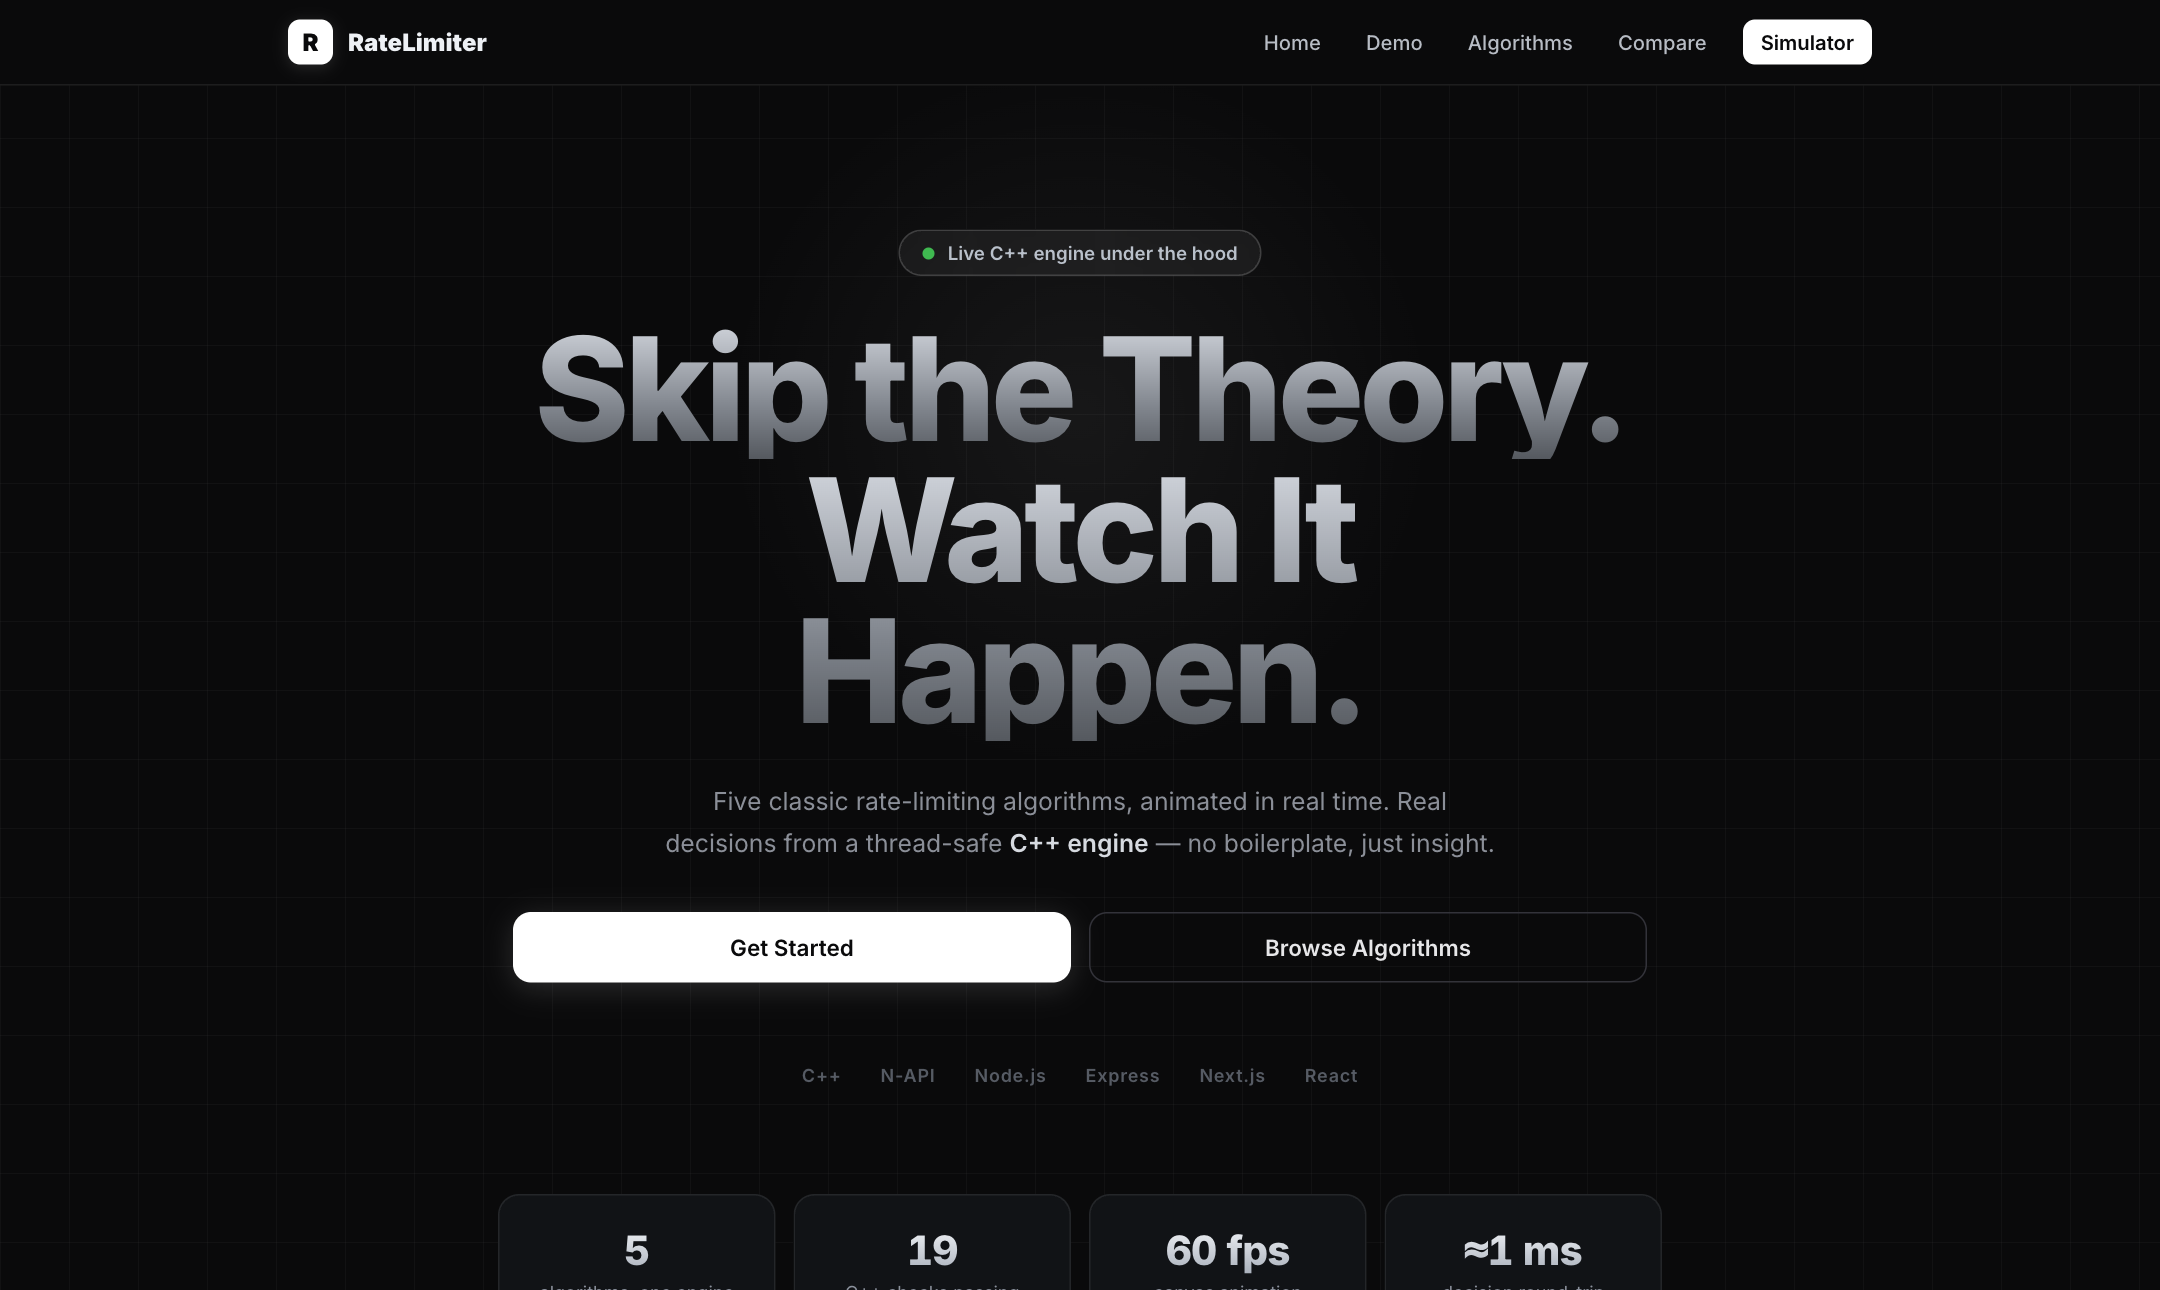
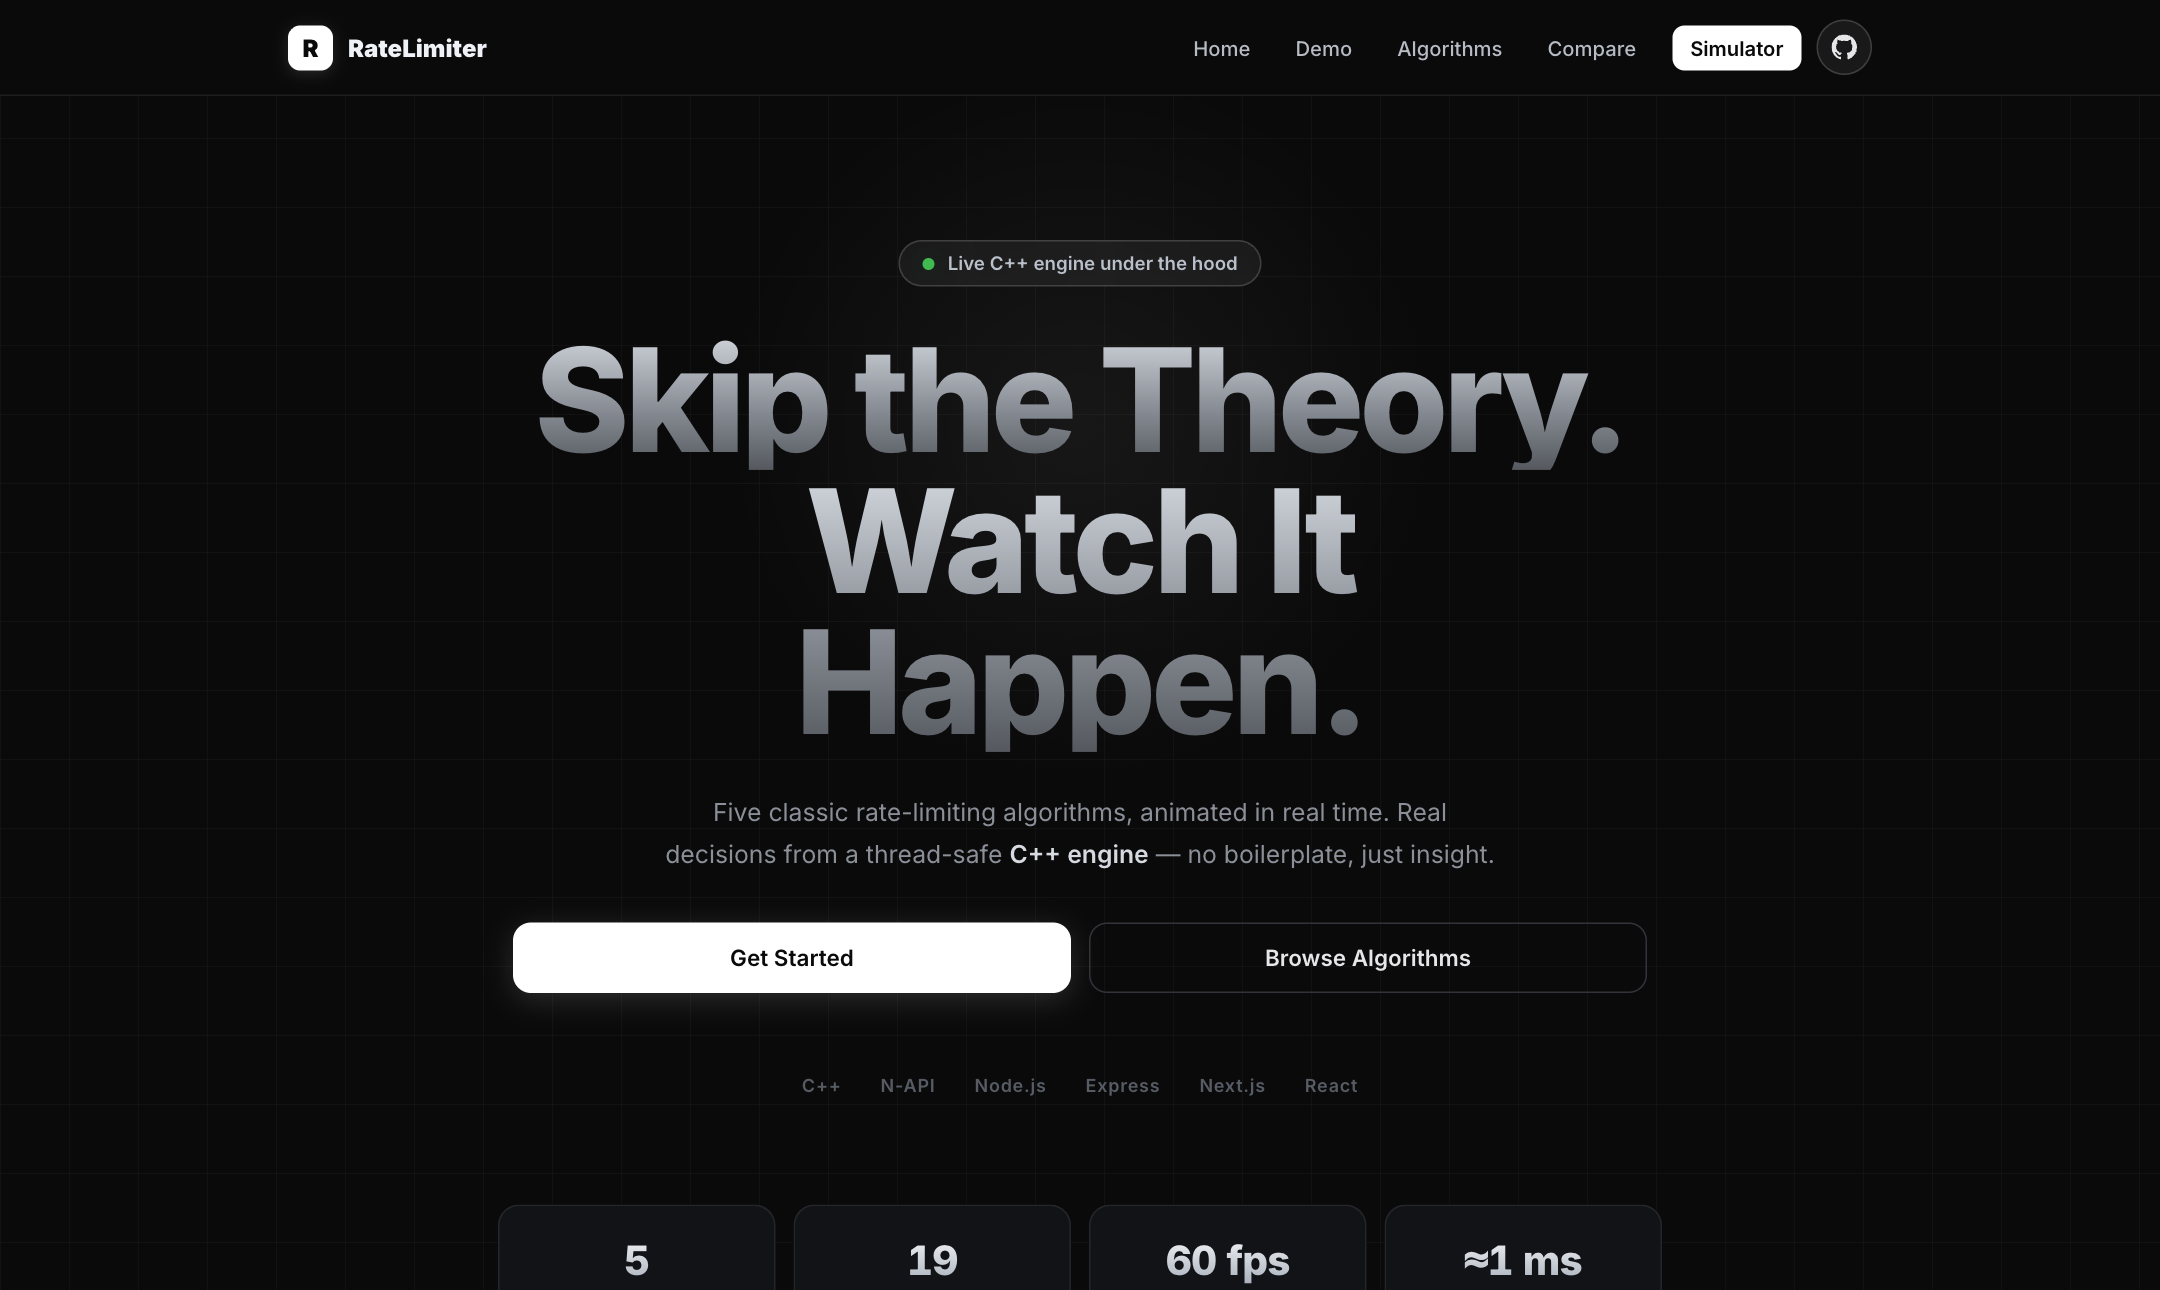
FIX

diff --git a/frontend/app/globals.css b/frontend/app/globals.css
@@ -94,7 +94,22 @@ code {
   color: #0a0a0b; background: #fff; font-weight: 600; margin-left: 6px;
 }
 .vnav-mid a.vnav-cta:hover { background: #e6e6ea; }
-@media (max-width: 560px) { .vnav-mid a:not(.vnav-cta) { display: none; } }
+
+/* circular GitHub button */
+.vnav-mid a.gh-btn {
+  width: 37px; height: 37px; padding: 0; margin-left: 4px;
+  display: inline-flex; align-items: center; justify-content: center;
+  border-radius: 50%; color: #e6e6e8;
+  background: rgba(255, 255, 255, 0.06);
+  border: 1px solid var(--border-strong);
+  transition: all 0.18s ease;
+}
+.vnav-mid a.gh-btn:hover {
+  color: #0a0a0b; background: #fff; border-color: #fff;
+  transform: scale(1.08);
+}
+
+@media (max-width: 560px) { .vnav-mid a:not(.vnav-cta):not(.gh-btn) { display: none; } }
 
 /* ============ motion ============ */
 .rise {
@@ -315,18 +330,20 @@ code {
 .sim-heading h1 { margin: 0; font-size: 27px; font-weight: 800; letter-spacing: -0.03em; }
 .sim-heading p { margin: 0; color: var(--muted); font-size: 13.5px; }
 
-/* algorithm tabs */
+/* algorithm tabs: a full-width segmented control, tabs share the row evenly */
 .seg {
   display: flex; flex-wrap: wrap; gap: 6px; margin-bottom: 16px;
   padding: 6px; border-radius: 14px;
   background: rgba(255, 255, 255, 0.03);
   border: 1px solid var(--border);
-  width: fit-content;
+  width: 100%;
 }
 .seg-btn {
+  flex: 1 1 auto; text-align: center; min-width: 150px;
   border: 1px solid transparent; background: transparent; color: var(--muted);
-  border-radius: 9px; padding: 9px 15px; font-size: 13px; font-weight: 600;
+  border-radius: 9px; padding: 10px 15px; font-size: 13px; font-weight: 600;
   font-family: inherit; cursor: pointer; transition: all 0.16s ease;
+  white-space: nowrap;
 }
 .seg-btn:hover { color: var(--text); background: rgba(255, 255, 255, 0.05); }
 .seg-btn.active {

diff --git a/frontend/components/SiteNav.js b/frontend/components/SiteNav.js
@@ -16,6 +16,18 @@ export default function SiteNav() {
           <Link href="/#algos">Algorithms</Link>
           <Link href="/compare">Compare</Link>
           <Link href="/simulator" className="vnav-cta">Simulator</Link>
+          <a
+            className="gh-btn"
+            href="https://github.com/subhm2004/Rate_Limiter"
+            target="_blank"
+            rel="noopener noreferrer"
+            aria-label="View source on GitHub"
+            title="View source on GitHub"
+          >
+            <svg viewBox="0 0 16 16" width="17" height="17" fill="currentColor" aria-hidden="true">
+              <path d="M8 0C3.58 0 0 3.58 0 8a8 8 0 0 0 5.47 7.59c.4.07.55-.17.55-.38v-1.34c-2.23.49-2.7-1.07-2.7-1.07-.36-.93-.89-1.18-.89-1.18-.73-.5.05-.49.05-.49.8.06 1.23.83 1.23.83.72 1.2 1.87.86 2.33.66.07-.52.28-.86.5-1.06-1.78-.2-3.64-.89-3.64-3.95 0-.87.31-1.59.83-2.15-.08-.2-.36-1.02.08-2.12 0 0 .67-.22 2.2.82a7.6 7.6 0 0 1 4 0c1.53-1.04 2.2-.82 2.2-.82.44 1.1.16 1.92.08 2.12.52.56.83 1.28.83 2.15 0 3.07-1.87 3.75-3.65 3.95.29.25.54.73.54 1.48v2.2c0 .21.15.46.55.38A8 8 0 0 0 16 8c0-4.42-3.58-8-8-8Z" />
+            </svg>
+          </a>
         </div>
       </div>
     </nav>